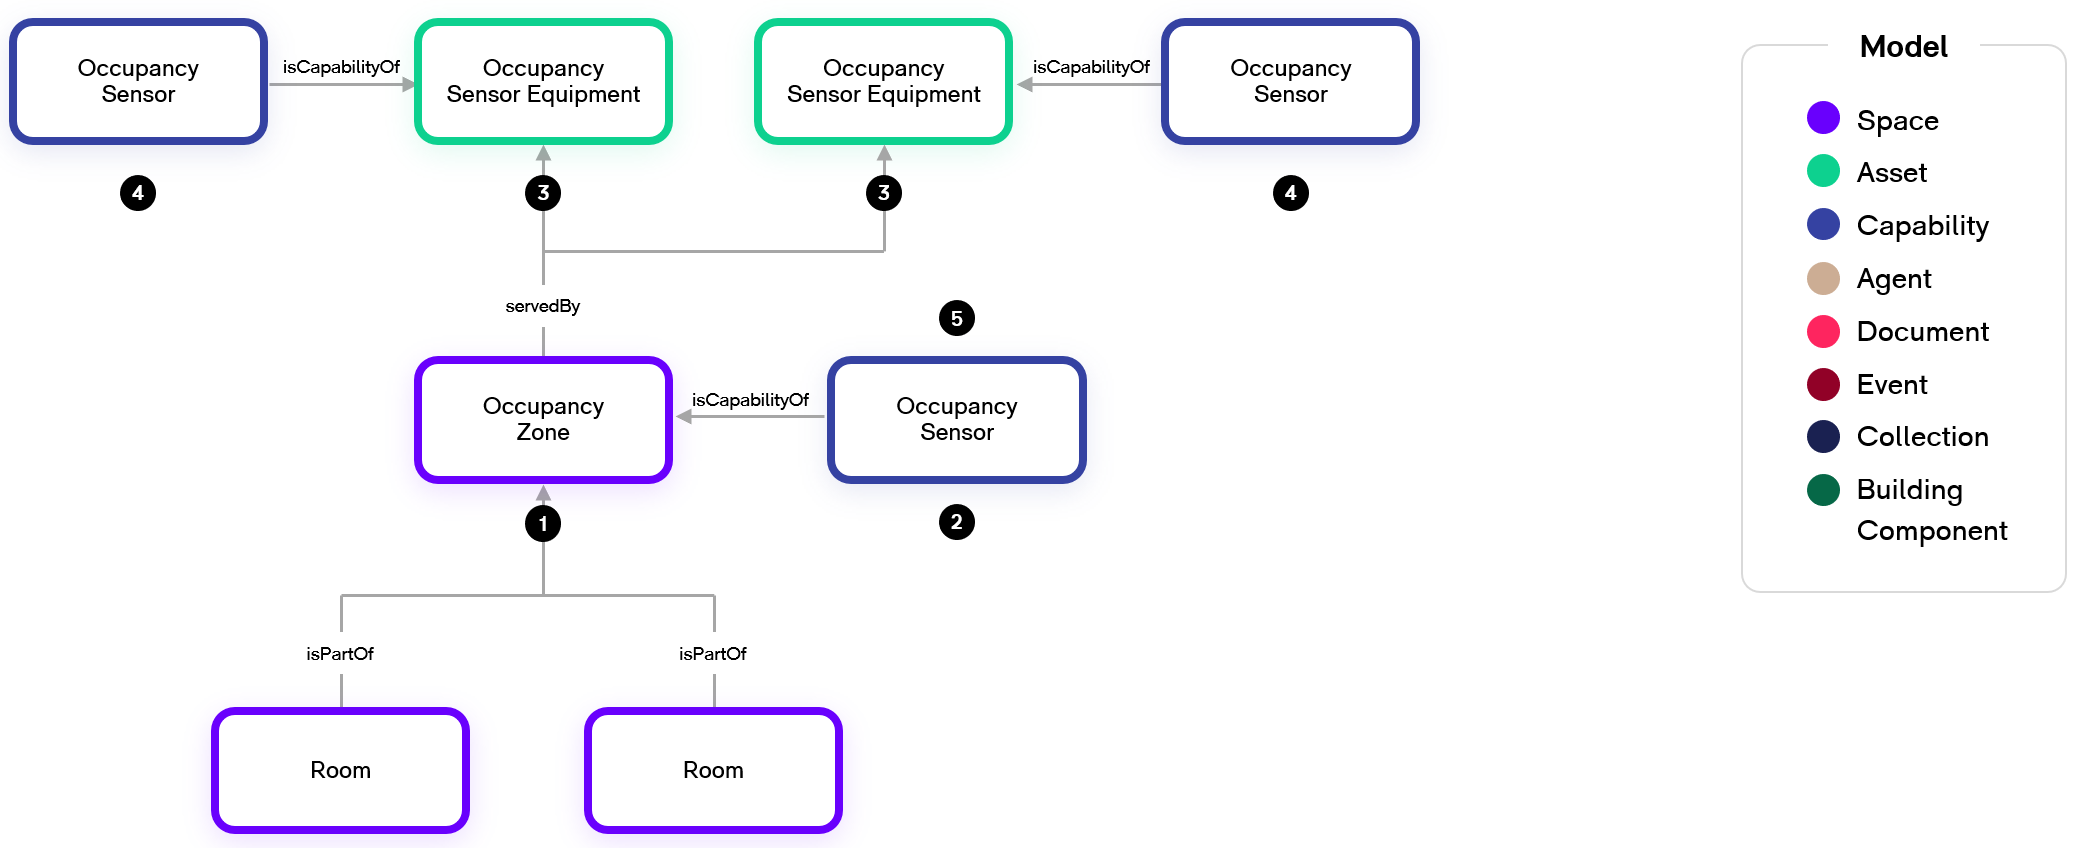
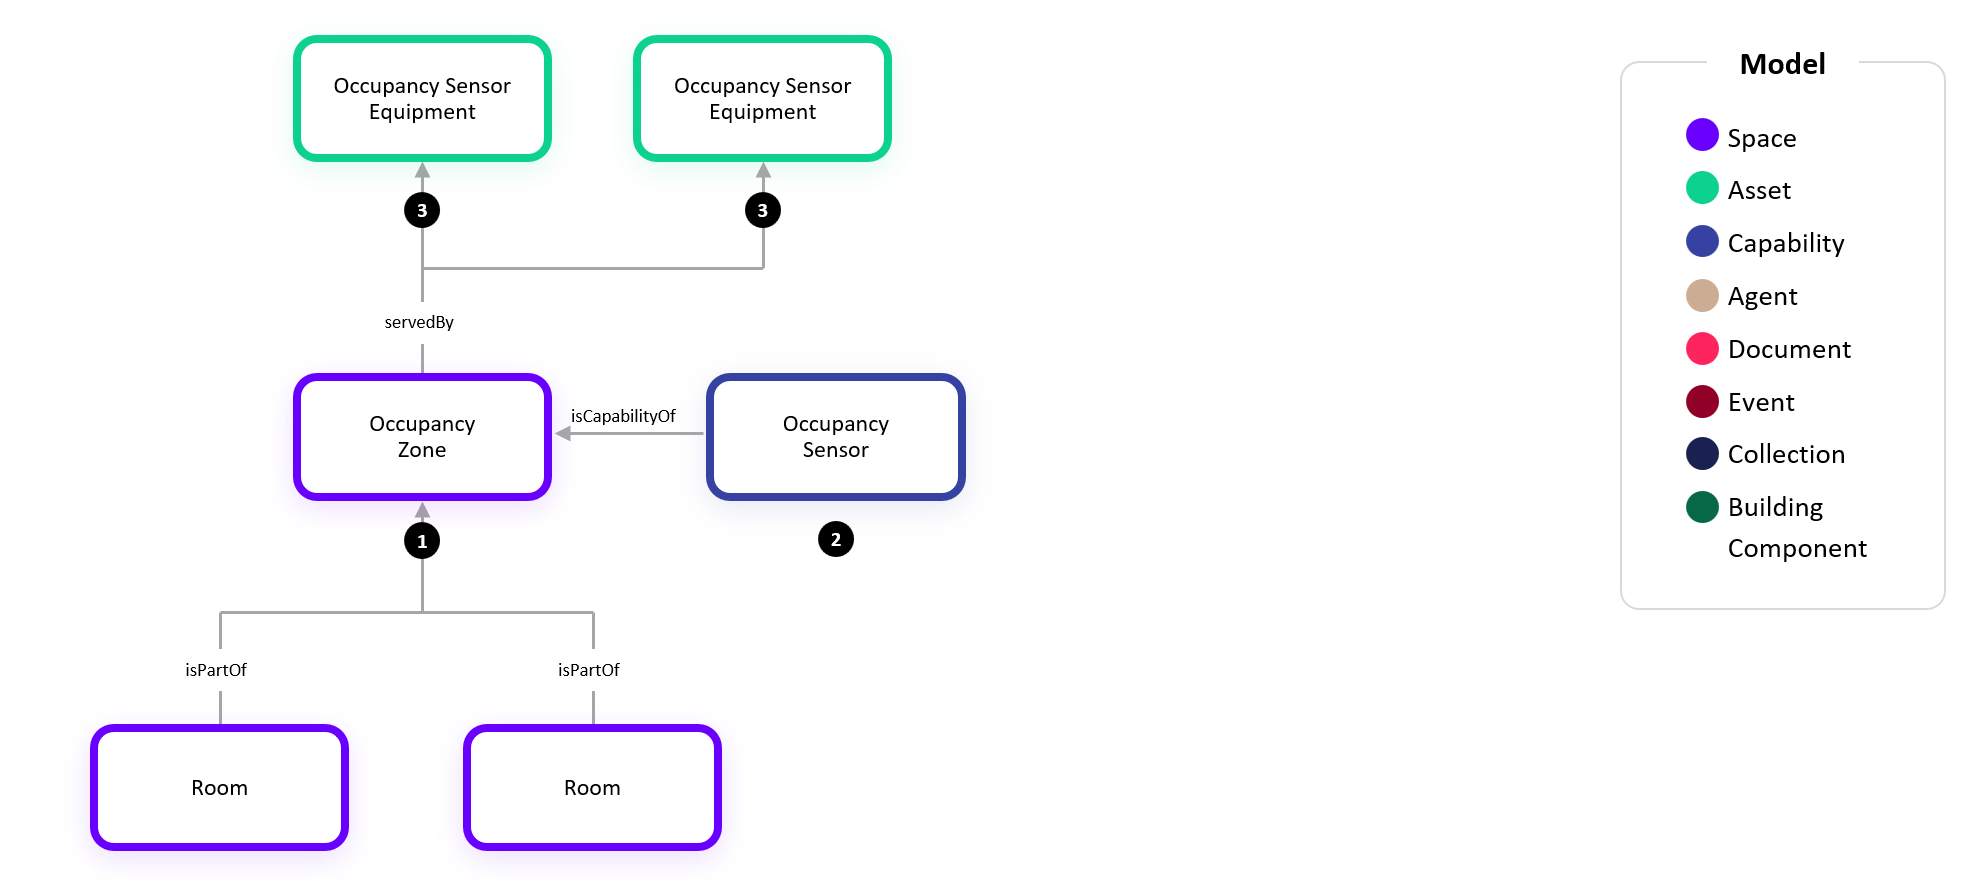
Update to latest Occupancy Modeling standards

diff --git a/Samples/12-Occupancy.md b/Samples/12-Occupancy.md
@@ -4,55 +4,67 @@ Occupancy include scenarios where people (and objects) are tracked within a spac
 
 There are many different types of sensor technology and sources of data which can be deployed to achieve a desired outcome for a use case. Occupancy, presence, and motion sensors emit a Boolean true/false value to define the corresponding state of the space. People count sensors emit a number value to define the quantity of people either in a space or entering/leaving a space. Other sources of data which may not rely on dedicated sensors include access control system reader events, video analytics, Bluetooth/WiFi systems, and space reservation solutions.
 
-## Space-based Occupancy and People Counts
+## Space Occupancy and People Counts
 
 Space-based sensors are typically located in the space for which they are determining the occupancy or people count. They directly report occupancy or people count values for a Space, such as a Room, of its current condition.
 
-### Occupancy Multi-Zone Room
+There are two styles of reporting space occupancy that a sensor solution may offer: device-based and zone-based. Let's take a look at how to configure each:
 
-![Occupancy-Example1](Images/Occupancy-Example1.png)
+### Device-based Space Occupancy
 
-1. At the core of every Occupancy use case is the Occupancy Zone. An Occupancy Zone is a type of Space which has a boundary, generally aligns 1:1 with a Room, but can also be more granular or broader. In this example, there are multiple Occupancy Zones within one Room. Because both Zones and Rooms are Spaces, we use the relationship isPartof.
+The device-based space occupancy configuration is when the telemetry being sent from the sensor vendor is related to a sensor device (People Count Sensor Equipment or Occupancy Sensor Equipment). In this scenario, we configure the following sets of twins and relationships:
 
-2. Each Occupancy Zone has one or more Capabilities which are a unique trend for that space based on the type of data that the sensors or systems are providing. In this example, each Occupancy Zone has a People Count Sensor, but other common Capabilities are Occupancy Sensor, Motion Sensor, or Inferred Occupancy Sensor. Sometimes the telemetry for these Occupancy Zone Capabilities is sent by the connected system if they have a corresponding concept to the Occupancy Zone and have already aggregated or calculated the value based on the underlying sensor technology. Other times the Occupancy Zone Capabilities will need to be calculated by the WillowTwin because the connected sensors only expose their individual Capabilities (#4).
+![SpaceOccupancy-Device-based-Example1](Images/SpaceOccupancy-Device-based-Example1.png)
 
-3. The People Count Sensor Equipment is the physical asset which is counting people. Generally, each equipment is aligned 1:1 with an Occupancy Zone, but there can also be multiple People Count Sensors serving a single zone as depicted in this example. Alternatively, there could be multiple Occupancy Zones served by a single People Count Sensor Equipment. The relationship servedBy is used between the People Count Sensor Equipment (Asset) and the Zone (Space).
+1. Each device is either a People Count Sensor Equipment or Occupancy Sensor Equipment depending on whether it is measuring the count of people in the space (People Count Sensor) or boolean occupancy (Occupancy Sensor). In this example we show a People Count Sensor Equipment each with its associated People Count Sensor capability.
 
-4. Each People Count Sensor Equipment has one or more Capabilities which are emitted. In this example, the People Count Sensor Capability is defined but a single equipment may also emit other Capabilities such as Occupancy Sensor, Motion Sensor, or Inferred Occupancy Sensor.
+2. Typically each Sensor Equipment will define the occupancy for a single space so there is a 1:1 relationship between an Occupancy Zone and a Sensor Equipment using the servedBy relationship. In some cases, multiple devices are deployed in a single space which need to be summed to determine the space's total people count at a given point in time. These Occupancy Zones would then have a servedBy relationship to each Sensor Equipment. When these are Occupancy Sensors, a logical OR expression can be used to determine overall space occupancy as a boolean.
 
-5. When there are multiple People Count Sensors (#4) serving a single Occupancy Zone and the connection solution doesn’t calculate and emit the aggregate for the Zone, the Zone’s People Count Sensor Capability (#5) will need to be calculated by the WillowTwin by summing the values from the individual People Count Sensors (#4).
+3. Each Occupancy Zone has an isPartOf relationship to the Room in which it is associated. The Room comes from another system such as a Space Management solution. It is important to note that the occupancy solution does not define Room twins even when their APIs or terminology refers to Rooms. Instead, they form relationships to these as defined in the other solution. The occupancy solution always contributes Sensor capabilties, Sensor Equipment, and Occupancy Zones.
+
+### Space-based Space Occupancy
+
+The space-based space occupancy configuration is when the telemetry (People Count Sensor or Occupancy Sensor) being sent from the sensor vendor is related to a space. Many sensor vendors may offer both device-based an space-based in their reporting. In this case, the space-based telemetry is always preferred as the vendor has already performed the aggregation and in many cases has unique functionality in doing so to assure better accuracy.
+
+![SpaceOccupancy-Space-based-Example1](Images/SpaceOccupancy-Device-based-Example1.png)
+
+1. Each Occupancy Zone has either a People Count Sensor or Occupancy Sensor depending on whether it is measuring the count of people in the space (People Count Sensor) or boolean occupancy (Occupancy Sensor). In this example we show a People Count Sensor Equipment each with its associated People Count Sensor capability.
+
+2. Similar to the device-based example above, each Occupancy Zone has an isPartOf relationship to the Room in which it is associated. The Room comes from another system such as a Space Management solution. It is important to note that the occupancy solution does not define Room twins even when their APIs or terminology refers to Rooms. Instead, they form relationships to these as defined in the other solution. The occupancy solution always contributes Sensor capabilties, Sensor Equipment, and Occupancy Zones.
+
+3. Optionally, the space-based solutions may still provide details about which physical sensor devices are serving the spaces. In this scnario, we include the Occupancy Zone servedby Sensor Equipment relationship just as the device-based example above. These may still have other capabilities such as the Battery Level State or be used in an asset management solution.
+
+### Workspace Occupancy 
+
+When individual workspaces or workstations are being sensed for occupancy rather than rooms, we include those in the Space Occupancy dashboard but use a slightly different set of models. In this scenario, we use the boolean Occupancy Sensor capability to create a count of 1 person occupying the workspace. 
+
+![Occupancy-Example3](Images/SpaceOccupancy-Device-based-Workspace.png)
+
+1. Similar to the standard device-based example above, an Occupancy Sensor Equipment has an Occupancy Sensor capability which determines whether someone is currently occupying the workspace.
+
+2. Again, each Occupancy Zone will have a 1:1 servedBy relationship to an Occupancy Sensor Equipment.
+
+3. The Occupancy Zone has an isPartOf relationship to a Workspace in this example which in turn isPartOf a Room or Level depending on the configuration in the Space Management system. Again, this will typically be 1:1 when the Workspace is aligned to an individual's workstation but there could be scenarios where a multi-person Workspace in the space management solution has individual seats being measured in which case there would be multiple Occupancy Zones for a single Workspace.
 
 ### Occupancy Multi-Room Zone
 
 ![Occupancy-Example2](Images/Occupancy-Example2.png)
 
-1. In this example, we show the flexibility in a zone where there are multiple Rooms within one Occupancy Zone. Because both Zones and Rooms are Spaces, we use the relationship isPartof.
+1. In each of the above examples, the Occupancy Zone had either a 1:1 or Many:1 relationship to a Room. In this example, we show the flexibility in a zone where there are multiple Rooms within one Occupancy Zone. This may be the case where the Space Management solution has defined separate "rooms" for an open office area or a large gathering area yet the occupancy solution has defined it as a single large entity.
 
-2. The Occupancy Zone has an Occupancy Sensor Capability. Sometimes the telemetry for these Occupancy Zone Capabilities is sent by the connected system if they have a corresponding concept to the Occupancy Zone and have already aggregated or calculated the value based on the underlying sensor technology. Other times the Occupancy Zone Capabilities will need to be calculated by the WillowTwin because the connected sensors only expose their individual Capabilities (#4).
+2. The Occupancy Zone has an Occupancy Sensor capability just as the space-based example above. This could also be a People Count Sensor. This could also be a device-based setup where the Occupancy Sensor capability would exist on the Occupancy Sensor Equipment rather than the zone.
 
-3. The Occupancy Sensor Equipment is the physical asset which is installed in the space. Generally, each equipment is aligned 1:1 with an Occupancy Zone, but there can also be multiple Occupancy Sensors serving a single zone as depicted in this example. The relationship servedBy is used between the Occupancy Sensor Equipment (Asset) and the Zone (Space).
+3. The Occupancy Sensor Equipment (or People Count Sensor Equipment) has the servedBy relationship from the Occupancy Zone.
 
-4. In this example, each Occupancy Sensor Equipment has an Occupancy Sensor Capability.
+### Assigning Occupancy Zones to Rooms or Levels
 
-5. When there are multiple Occupancy Sensors (#4) serving a single Occupancy Zone and the connection solution doesn’t calculate and emit the aggregate for the Zone, the Zone’s Occupancy Sensor Capability (#5) will need to be calculated by the WillowTwin by taking the logical OR of the values from the individual Occupancy Sensors (#4).
+While the above examples all showed the Occupancy Zones as a part of a Room (or Workspace), it is also possible that level of detail isn't available in the occupancy solution and the Occupancy Zones are just known to be on a specific level of a building. In these scenarios, we directly associate the Occupancy Zone to a Level as shown here:
 
-### Workstation Occupancy 
+![OccupancyZone-Level](Images/OccupancyZone-Level.png)
 
-![Occupancy-Example3](Images/Occupancy-Example3.png)
+## Entry and Exit-based People Counts (Footfall)
 
-1. In this example, we again show the scenario where there are multiple Occupancy Zones within one Room. Because both Zones and Rooms are Spaces, we use the relationship isPartof.
-
-2. Each Occupancy Zone is defined to align 1:1 with a Workstation. Therefore, we additionally establish the locatedIn relationship between the Workstation (Asset) and the Occupancy Zone (Space). While this is not explicitly required, it is recommended to enabled related scenarios where the Workstation is given an identity and assigned to or reserved by a Person.
-
-3. Each Asset must have a locatedIn relationship to a Space to associate with the larger site such as the Building or Land (See Assets Example). In this example, the Workstation (Asset) is locatedIn a Room (Space).
-
-4. In this example, we show the scenario where a multiple Occupancy Zones are served by a single Occupancy Sensor Equipment. This is common in camera-based solutions where a single equipment can be configured to track multiple logical zones.
-
-5. When a single Occupancy Sensor Equipment is configured to track multiple logical zones, it has a unique Occupancy Sensor Capability twin (#5s) for each corresponding zone.
-
-## Entry and Exit-based People Counts
-
-Entry and exit-based sensors are counting people crossing a threshold, such as an entryway, door, or turnstile. They differ from space-based people counts in that they can indicate how people are entering and leaving a space if there are multiple entryways, but they are less accurate in determining live counts. Because they are totalizing entries and exits, a missed person count entering or exiting a space propogates for the rest of the time period for which counts are being aggregated. As such, these typically need a daily reset.
+Entry and exit-based sensors are counting people crossing a threshold, such as an entryway, door, or turnstile. This is also referred to as footfall. They differ from space-based people counts in that they can indicate how people are entering and leaving a space if there are multiple entryways, but they are less accurate in determining live counts. Because they are totalizing entries and exits, a missed person count entering or exiting a space propogates for the rest of the time period for which counts are being aggregated. As such, these typically need a daily reset.
 
 ### Simple Openings
 
@@ -122,17 +134,34 @@ Often when using the entry and exit-based people count sensors, the count of peo
 
 6. Next, we define the relationship isExitFor to the OccupancyZone for which the Opening’s two capabilities have the opposite meaning. In other words, we can infer that the numbering of people leaving Room #2 via this Opening is the Entering People Count Sensor. Likewise, the number of people entering Room #2 via this Opening can be inferred from the Leaving People Count Sensor.
 
+### Building Footfall
 
-### Access Control People Counts
+Building Footfall differs from Space Footfall in that the footfall is related to entire building occupancy as determined by measuring the people entering and leaving the entrances to the building. This is a more accurant means of determining the building occupancy because space occupancy rarely has the ability to provide pervasive enough sensors throughout the building.
 
-In this example, we show how person access events (i.e. access reader granting access) can be used by the WillowTwin to determine occupancy metrics for the Building or a Level.
+This building footfall data could be sourced from either an IoT sensor device which measures the quantitiy and direction of people crossing a line or an access control system where badge swipe events provide the quantity and direction of people entering and leaving the building. Here are examples showing these two scenarios:
 
-![AccessControl-Example1](Images/AccessControl-Example1.png)
+#### People Count Sensor-based Footfall (Simple Openings)
 
-1. We establish the Building servedBy relationship with the Turnstile to specify which person access granted events should be summed to calculate the Building’s Total and Unique Entering People Counts.
+![Occupancy-Example7](Images/Occupancy-BuildingFootfall-SimpleOpening.png)
 
-2. The Total Entering People Count Sensor and Unique Entering People Count Sensor are calculated by the WillowTwin based on the Person Access Events associated with the Building. The Total Entering People Count is defined as the sum of all access reader granted events for the defined period regardless of whether the same person has entered multiple times whereas the Unique Entering People Count is defined as the unique individuals who have entered for the defined period which will not increment if the same person enters multiple times.
+1. The modeling of an Opening (i.e. Door) and its Entering/Leaving People Count Sensors is the same as shown above for individual space footfall.
 
-3. While the Person Access Event is shown as if it were a twin in this image, it is NOT required to be created as an actual twin in the WillowTwin at this time. This Person Access Event is showing a record in the time series database and how it relates to the Turnstile which is required for the WillowTwin to calculate the Total and Unique Entering People Counts.
+2. Similarly, the Door is servedBy the People Count Sensor Equipment.
 
-4.  If we want to determine another space’s entering people count, we use the same servedBy relationship from the space. In this example we show a Level which has two Doors as its entry points. Note that in a multi-tenant building, it is common to have doors at the ends of the elevator lobby, but these are often access controlled by the tenant’s access control system rather than the building’s access control system. As such, it may not be possible to determine floor level occupancy purely from a connection to the building’s access control system.
+3. For Building Footfall, the Openings (i.e. Doors) which need to be summed to determine the total have an isEntryTo relationship to the Building.
+
+4. A pair of calculated capabilities, Total Entering/Leaving People Count Sensors, are added to the Building. While these are not often determined or provided by the sensor vendor, Willow sets these up to use in analytics.
+
+#### Access Control-based Footfall (Simple Openings)
+
+![Occupancy-Example7](Images/Occupancy-BuildingFootfall-AccessControl-SimpleOpening.png)
+
+1. Each Access Reader has a producedby relationship to either an Entering or Leaving Person Access Event based on whether the reader is providing entry or exit to the building.
+
+2. When there is both an entry and exit access reader on the same Door, they each have a serves relationship to the Door.
+
+3. Each Opening (i.e. Door or Turnstile) which needs to be summed to determine the total has an isEntryTo relationship to the Building.
+
+4. The Door gets a pair of calculated capabilities, Total Entering/Leaving People Count Sensors, which are used to provide a breakdown of which Openings are used most and least. While these are not often determined or provided by the sensor vendor, Willow sets these up to use in analytics.
+
+5. Similar to the above People Count Sensor example, a pair of calculated capabilities, Total Entering/Leaving People Count Sensors, are added to the Building. While these are not often determined or provided by the sensor vendor, Willow sets these up to use in analytics. For Access Control-based Footfall, a third calculated capability which is the Unique Entering People Count Sensor is added because Access Control Systems provide in the metadata of their Person Access Event payloads the details about which person has swiped the badge and thus daily unique counts are offered.
